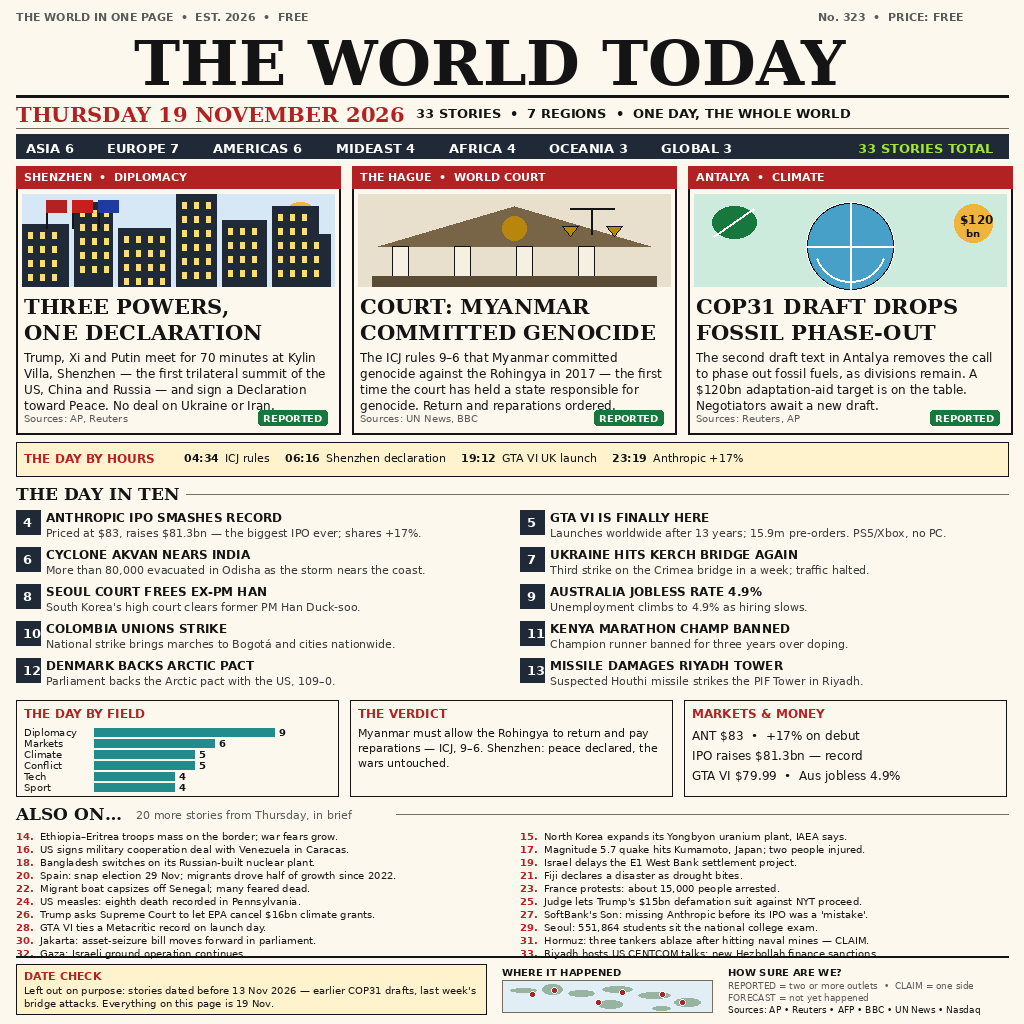
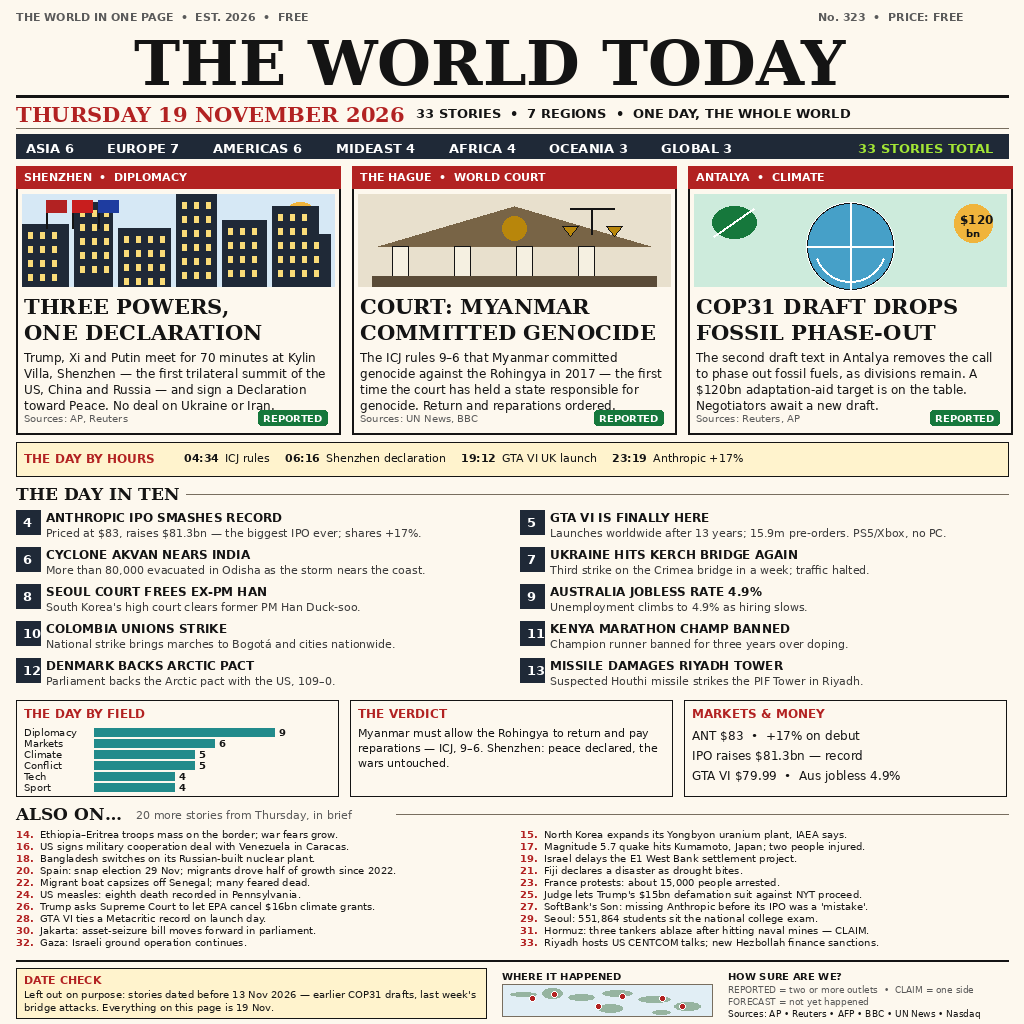
Fix briefs row overlap: last row (32-33) no longer struck by footer rule

Changed region(s): [[0.0, 0.8125, 0.9688, 1.0]]

diff --git a/work/frontpage_19nov.py b/work/frontpage_19nov.py
@@ -312,16 +312,16 @@ briefs = [
     ("32", "Gaza: Israeli ground operation continues."),
     ("33", "Riyadh hosts US CENTCOM talks; new Hezbollah finance sanctions."),
 ]
-brow = 13
+brow = 12
 for i, (num, txt) in enumerate(briefs):
     col, row = i % 2, i // 2
     bx2 = MX + col * (CW // 2 + 8)
-    by2 = BY + 26 + row * brow
+    by2 = BY + 24 + row * brow
     d.text((bx2, by2), num + ".", font=f(SANS_B, 10), fill=RED)
     d.text((bx2 + 24, by2), txt, font=f(SANS, 10), fill=INK)
 
 # ---------------------------------------------------------------- footer
-FY = 956
+FY = 960
 rule(d, MX, FY, W - MX, 2)
 # date check box
 d.rectangle([MX, FY + 8, MX + 470, FY + 58], fill=(255, 243, 205),
